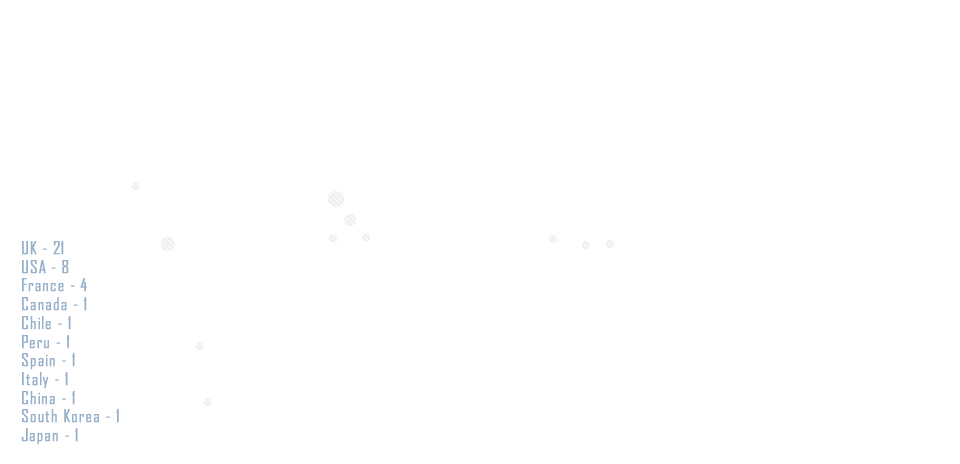
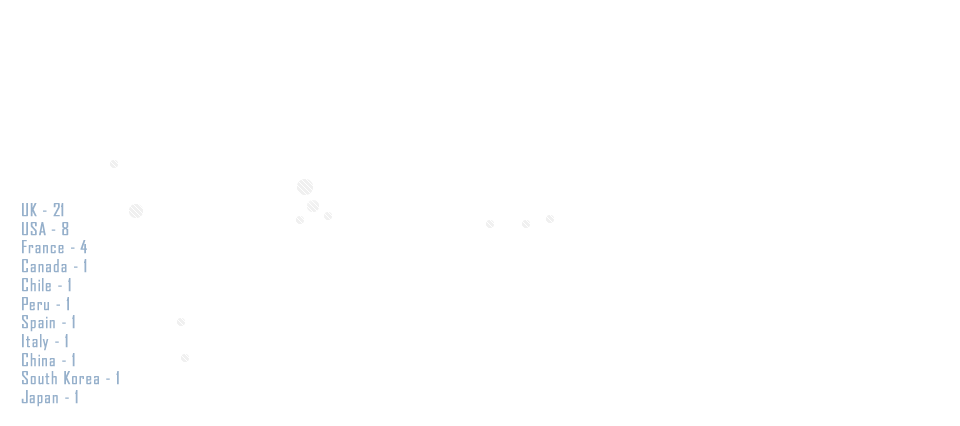
added new png and updated content
git-svn-id: https://code.oicr.on.ca/svn/biomart/mart-htdocs/trunk@10750 8dd1c8d6-c59f-4bb3-b62a-300035dbf9e7

Changed region(s): [[0.0, 0.4577, 0.125, 0.946]]

diff --git a/publications.html b/publications.html
@@ -103,7 +103,7 @@
         <link rel="stylesheet" type="text/css" href="assets/css/layout.css" />
         <link REL="SHORTCUT ICON" HREF="/favicon.ico" />
         <meta http-equiv="Content-Type" content="text/html; charset=UTF-8" />
-        <title>Bio mart</title>
+        <title>BioMart</title>
            <!--[if lt IE 9]>
    <style type="text/css">
    #logo{
@@ -158,7 +158,7 @@
                     <p class="publication-link"><a href="http://database.oxfordjournals.org/content/2011/bar049.full" >Database Vol. 2011, doi:10.1093/database/bar049</a></p>
                     
                     <span class="title author">BioMart Central Portal: An Open Database Network for Biological Community</span>
-                    <p class="abstract">Jonathan M. Guberman, J. Ai, O. Arnaiz, Joachim Baran, Andrew Blake, Richard Baldock, Claude Chelala, David Croft, Anthony Cros, Rosalind J. Cutts, A. Di Génova, Simon Forbes, T. Fujisawa, E. Gadaleta, D. M. Goodstein, Gunes Gundem, Bernard Haggarty, Syed Haider, Matthew Hall, Todd Harris, Robin Haw, S. Hu, Simon Hubbard, Jack Hsu, Vivek Iyer, Philip Jones, Toshiaki Katayama, R. Kinsella, Lei Kong, Daniel Lawson, Yong Liang, Nuria Lopez-Bigas, J. Luo, Michael Lush, Jeremy Mason, Francois Moreews, Nelson Ndegwa, Darren Oakley, Christian Perez-Llamas, Michael Primig, Elena Rivkin, S. Rosanoff, Rebecca Shepherd, Reinhard Simon, B. Skarnes, Damian Smedley, Linda Sperling, William Spooner, Peter Stevenson, Kevin Stone, J. Teague, Jun Wang, Jianxin Wang, Brett Whitty, D. T. Wong, Marie Wong-Erasmus, L. Yao, Ken Youens-Clark, Christina Yung, Junjun Zhang, and Arek Kasprzyk</p>
+                    <p class="abstract">Jonathan M. Guberman, J. Ai, O. Arnaiz, Joachim Baran, Andrew Blake, Richard Baldock, Claude Chelala, David Croft, Anthony Cros, Rosalind J. Cutts, A. Di GÃƒÂ©nova, Simon Forbes, T. Fujisawa, E. Gadaleta, D. M. Goodstein, Gunes Gundem, Bernard Haggarty, Syed Haider, Matthew Hall, Todd Harris, Robin Haw, S. Hu, Simon Hubbard, Jack Hsu, Vivek Iyer, Philip Jones, Toshiaki Katayama, R. Kinsella, Lei Kong, Daniel Lawson, Yong Liang, Nuria Lopez-Bigas, J. Luo, Michael Lush, Jeremy Mason, Francois Moreews, Nelson Ndegwa, Darren Oakley, Christian Perez-Llamas, Michael Primig, Elena Rivkin, S. Rosanoff, Rebecca Shepherd, Reinhard Simon, B. Skarnes, Damian Smedley, Linda Sperling, William Spooner, Peter Stevenson, Kevin Stone, J. Teague, Jun Wang, Jianxin Wang, Brett Whitty, D. T. Wong, Marie Wong-Erasmus, L. Yao, Ken Youens-Clark, Christina Yung, Junjun Zhang, and Arek Kasprzyk</p>
                     <p class="publication-link"><a href="http://database.oxfordjournals.org/content/2011/bar041.full" >Database Vol. 2011, doi:10.1093/database/bar041</a></p>
                     
                     <span class="title author">BioMart: A data federation framework for large collaborative projects</span>
@@ -188,7 +188,7 @@
                     
                     <div class="sub-heading">Publications by Independent Groups</div>
                     <span class="title author">Critical amino acid residues in proteins: a BioMart integration of Reactome protein annotations with PRIDE mass spectrometry data and COSMIC somatic mutations</span>
-                    <p class="abstract">Nelson Ndegwa, Richard G. Côté, David Ovelleiro, Peter D'Eustachio, Henning Hermjakob, Juan A. Vizcaíno and David Croft </p>
+                    <p class="abstract">Nelson Ndegwa, Richard G. CÃƒÂ´tÃƒÂ©, David Ovelleiro, Peter D'Eustachio, Henning Hermjakob, Juan A. VizcaÃƒÂno and David Croft </p>
                     <p class="publication-link"><a href="http://database.oxfordjournals.org/content/2011/bar047.full" >Database Vol. 2011, doi:10.1093/database/bar047</a></p>                   
                     
                     <span class="title author">Integrative Cancer Genomics (IntOGen) in BioMart</span>
@@ -200,11 +200,11 @@
                     <p class="publication-link"><a href="http://database.oxfordjournals.org/content/2011/bar033.full" >Database Vol. 2011, doi:10.1093/database/bar033</a></p>                   
                     
                     <span class="title author">The Reactome BioMart</span>
-                    <p class="abstract">Robin Haw, David Croft, Christina K Yung, Nelson Ndegwa, Peter D’Eustachio, Henning Hermajakob and Lincoln Stein</p>
+                    <p class="abstract">Robin Haw, David Croft, Christina K Yung, Nelson Ndegwa, Peter DÃ¢â‚¬â„¢Eustachio, Henning Hermajakob and Lincoln Stein</p>
                     <p class="publication-link"><a href="http://database.oxfordjournals.org/content/2011/bar031.full" >Database Vol. 2011, doi:10.1093/database/bar031</a></p>                   
                     
                     <span class="title author">Ensembl BioMarts: a hub for data retrieval across the taxonomic space</span>
-                    <p class="abstract">Rhoda J. Kinsella, Andreas Kähäri, Syed Haider, Jorge Zamora, Glenn Proctor, Giulietta Spudich, Jeff Almeida-King, Daniel Staines, Paul Derwent, Arnaud Kerhornou, Paul Kersey, and Paul Flicek</p>
+                    <p class="abstract">Rhoda J. Kinsella, Andreas KÃƒÂ¤hÃƒÂ¤ri, Syed Haider, Jorge Zamora, Glenn Proctor, Giulietta Spudich, Jeff Almeida-King, Daniel Staines, Paul Derwent, Arnaud Kerhornou, Paul Kersey, and Paul Flicek</p>
                     <p class="publication-link"><a href="http://database.oxfordjournals.org/content/2011/bar030.full" >Database Vol. 2011, doi:10.1093/database/bar030</a></p>                   
                     
                     <span class="title author">The BioMart interface to the EMAGE gene expression database</span>
@@ -216,7 +216,7 @@
                     <p class="publication-link"><a href="http://database.oxfordjournals.org/content/2011/bar028.full" >Database Vol. 2011, doi:10.1093/database/bar028</a></p>                   
                     
                     <span class="title author">SigReannot-mart: A query environment for expression microarray probe re-annotations</span>
-                    <p class="abstract">François Moreews, Gaelle Rauffet, Patrice Dehais, and Christophe Klopp</p>
+                    <p class="abstract">FranÃƒÂ§ois Moreews, Gaelle Rauffet, Patrice Dehais, and Christophe Klopp</p>
                     <p class="publication-link"><a href="http://database.oxfordjournals.org/content/2011/bar025.full" >Database Vol. 2011, doi:10.1093/database/bar025</a></p>                   
                     
                     <span class="title author">Using BioMart as a framework to manage and query pancreatic cancer data</span>
@@ -311,6 +311,9 @@
                         </li>-->
                         
                     </ul>	
+                    <div id="article-container">
+                        <a href="http://oxfordjournals-marketing.oup.com/q/1MozDkVONg1Q1p/wv" target="_blank" title="Read Database's new Biomart virtual issue"></a>
+                    </div>
                 </div>
                 <div id="footer">
                     

diff --git a/martservice.html b/martservice.html
@@ -104,7 +104,7 @@
         <link rel="stylesheet" type="text/css" href="assets/css/layout.css" />
         <link REL="SHORTCUT ICON" HREF="/favicon.ico" />
         <meta http-equiv="Content-Type" content="text/html; charset=UTF-8" />
-        <title>Bio mart</title>
+        <title>BioMart</title>
            <!--[if lt IE 9]>
    <style type="text/css">
    #logo{
@@ -150,18 +150,18 @@
                     </ul>
                     <span class="title">Retrieving Meta Data</span>                    
                     <ul>
-                        <li>to retrieve registry information: /biomart/martservice?type=registry</li>
-                        <li>to retrieve datasets available for a mart: /biomart/martservice?type=datasets&mart=ensembl</li>
-                        <li>to retrieve attributes available for a dataset: /biomart/martservice?type=attributes&dataset=oanatinus_gene_ensembl</li>
-                        <li>to retrieve filters available for a dataset: /biomart/martservice?type=filters&dataset=oanatinus_gene_ensembl</li>
-                        <li>to retrieve configuration for a dataset: /biomart/martservice?type=configuration&dataset=oanatinus_gene_ensembl</li>
+                        <li>to retrieve registry information: <a href="/biomart/martservice?type=registry" target="_blank" class="no-bg">/biomart/martservice?type=registry</a></li>
+                        <li>to retrieve datasets available for a mart: <a href="/biomart/martservice?type=datasets&mart=ensembl" target="_blank" class="no-bg">/biomart/martservice?type=datasets&mart=ensembl</a></li>
+                        <li>to retrieve attributes available for a dataset: <a href="/biomart/martservice?type=attributes&dataset=oanatinus_gene_ensembl" target="_blank" class="no-bg">/biomart/martservice?type=attributes&dataset=oanatinus_gene_ensembl</a></li>
+                        <li>to retrieve filters available for a dataset: <a href="/biomart/martservice?type=filters&dataset=oanatinus_gene_ensembl" target="_blank" class="no-bg">/biomart/martservice?type=filters&dataset=oanatinus_gene_ensembl</a></li>
+                        <li>to retrieve configuration for a dataset: <a href="/biomart/martservice?type=configuration&dataset=oanatinus_gene_ensembl" target="_blank" class="no-bg">/biomart/martservice?type=configuration&dataset=oanatinus_gene_ensembl</a></li>
                     </ul>
                     <div class="sub-heading with-margin">SOAP Access</div>                    
                     <p>The SOAP based access is functionally equivalent to the REST style access described above. For description on BioMart SOAP based Web Service (MartServiceSoap), see:</p>
                     <ul>
-                        <li>MartServiceSoap Endpoint (for SOAP based access only): /biomart/martsoap</li>
-                        <li>MartServiceSoap WSDL: /biomart/martwsdl</li>
-                        <li>MartServiceSoap XSD: /biomart/martxsd</li>
+                        <li>MartServiceSoap Endpoint (for SOAP based access only): <a href="/biomart/martsoap" target="_blank" class="no-bg">/biomart/martsoap</a></li>
+                        <li>MartServiceSoap WSDL: <a href="/biomart/martwsdl" target="_blank" class="no-bg">/biomart/martwsdl</a></li>
+                        <li>MartServiceSoap XSD: <a href="/biomart/martxsd" target="_blank" class="no-bg">/biomart/martxsd</a></li>
                     </ul>
                     
                 </div>
@@ -240,7 +240,10 @@
                             </ul>
                         </li>-->
                         
-                    </ul>	
+                    </ul>
+                    <div id="article-container">
+                        <a href="http://oxfordjournals-marketing.oup.com/q/1MozDkVONg1Q1p/wv" target="_blank" title="Read Database's new Biomart virtual issue"></a>
+                    </div>
                 </div>
                 <div id="footer">
                     

diff --git a/assets/css/layout.css b/assets/css/layout.css
@@ -51,17 +51,17 @@ body {
 #header{
     position:relative;
     width:100%;
-    height:120px;
+    height:110px;
     margin:0;
 }
 
 #logo{
     background:url('../images/logo-large.png') no-repeat scroll 0 0 transparent;
-    width:293px;
-    height:90px;
+    width:250px;
+    height:77px;
     position:absolute;
     top:15px;
-    left:183px;
+    left:201px;
     
 }
 
@@ -114,7 +114,7 @@ font-family:arial narrow, calibri, 'Didact Gothic', serif;
 
 #main-content #top{    
     background:url('../images/map4.jpg') no-repeat scroll -1px -1px white;
-    height:464px;
+    height:426px;
     -moz-border-radius:25px 0px 0 0;
     -webkit-border-radius:25px 0px 0 0;
     
@@ -124,7 +124,7 @@ font-family:arial narrow, calibri, 'Didact Gothic', serif;
 
 #main-content #top .overlay{
     background:url('../images/bio-overlay2.png') no-repeat;    
-    height:464px;
+    height:426px;
     position: absolute;
     top: 0;
     left: 0;
@@ -413,4 +413,21 @@ background:none !important;
 font-weight:bold;
 float: none !important;
 display: inline !important;
+}
+
+#article-container{    
+    width:199px;
+    float:right;
+    position:relative;
+    height:290px;
+    margin-top:50px;
+    
+}
+
+#article-container a{
+    width:177px;
+    height:239px;
+    position:absolute;
+    background:url('../images/oxford3.png') scroll 0 0px transparent;
+    right:33px;
 }

diff --git a/index.html b/index.html
@@ -96,7 +96,7 @@
         <link REL="SHORTCUT ICON" HREF="/favicon.ico" />
         <!--<link  href="http://fonts.googleapis.com/css?family=Didact+Gothic:regular" rel="stylesheet" type="text/css" >-->
         <meta http-equiv="Content-Type" content="text/html; charset=UTF-8" />
-        <title>Bio mart</title>
+        <title>BioMart</title>
         <!--[if lt IE 9]>
    <style type="text/css">
    #logo{
@@ -221,7 +221,10 @@
                             </ul>
                         </li>-->
                         
-                    </ul>	
+                    </ul>
+                    <div id="article-container">
+                        <a href="http://oxfordjournals-marketing.oup.com/q/1MozDkVONg1Q1p/wv" target="_blank" title="Read Database's new Biomart virtual issue"></a>
+                    </div>
                 </div>
                 <div id="footer">
                 </div>

diff --git a/news.html b/news.html
@@ -103,7 +103,7 @@
         <link rel="stylesheet" type="text/css" href="assets/css/layout.css" />
         <link REL="SHORTCUT ICON" HREF="/favicon.ico" />
         <meta http-equiv="Content-Type" content="text/html; charset=UTF-8" />
-        <title>Bio mart</title>
+        <title>BioMart</title>
           <!--[if lt IE 9]>
    <style type="text/css">
    #logo{
@@ -300,6 +300,9 @@
                         </li>-->
                         
                     </ul>	
+                    <div id="article-container">
+                        <a href="http://oxfordjournals-marketing.oup.com/q/1MozDkVONg1Q1p/wv" target="_blank" title="Read Database's new Biomart virtual issue"></a>
+                    </div>
                 </div>
                 <div id="footer">
                     
